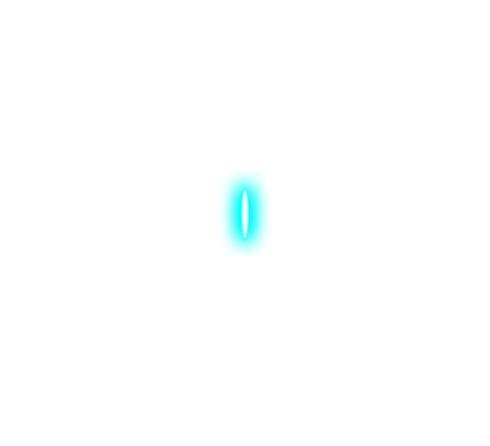
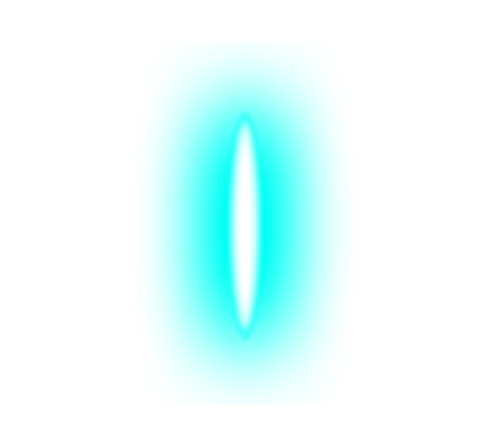
The Cart now has sounds and a bullet that appears in the game. Need to change the sound to match the requirements for the assignment.

Changed region(s): [[0.3061, 0.1166, 0.7041, 0.9036]]

diff --git a/Carts.py b/Carts.py
@@ -25,12 +25,12 @@ class Carts:
             self.moving_right = False
             self.moving_left = False
             self.x = float(self.rect.x)
-            self.blaster = blaster
+            self.arsenal = arsenal
     
     def update(self):
          # updating the position for the cart.
         self._Updated_ship_movement()
-        self.blaster.update_blaster()
+        self.arsenal.update_blaster()
 
     def _Updated_ship_movement(self):
         temp_speed = 5
@@ -43,14 +43,13 @@ class Carts:
 
 
     def draw(self) -> None:
-         self.blaster.draw()
+         self.arsenal.draw()
          self.screen.blit(self.image, self.rect)
 
     def fire(self) -> bool:
-         return self.blaster.fire_bullet()
-    
-         
-   # def blitme(self):
-    #    '''Draw the cart at its current location.'''
-   #     self.screen.blit(self.image, self.rect)
+        return self.arsenal.fire_bullet()
+
+# def blitme(self):
+#    '''Draw the cart at its current location.'''
+#     self.screen.blit(self.image, self.rect)
         

diff --git a/settings.py b/settings.py
@@ -17,7 +17,7 @@ class Settings:
         self.cart_height = 190
         self.carts_speed = 5
 
-        self.bullet_file = Path.cwd() / 'unit_11_alien_Invasion_starter' / 'Assets' / 'images' / 'beams.png'
+        self.bullet_file = Path.cwd() / 'unit_11_alien_Invasion_starter' / 'Assets' / 'images' / 'laser_beams.png'
         self.laser_sound = Path.cwd() / 'unit_11_alien_Invasion_starter' / 'Assets' / 'sound' / 'laser.mp3'
         self.bullet_speed = 7
         self.bullet_width = 25
